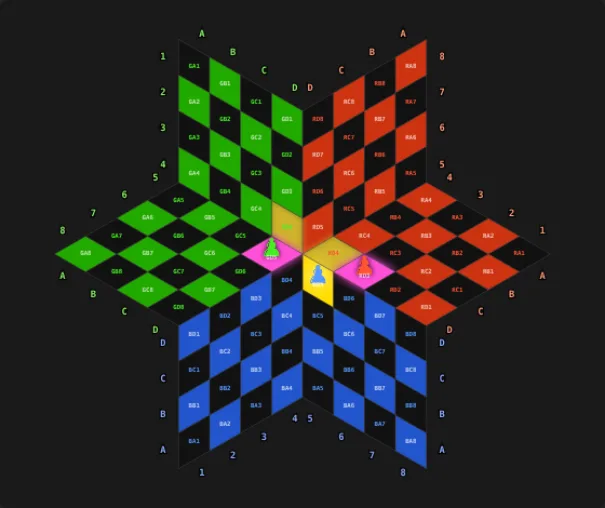
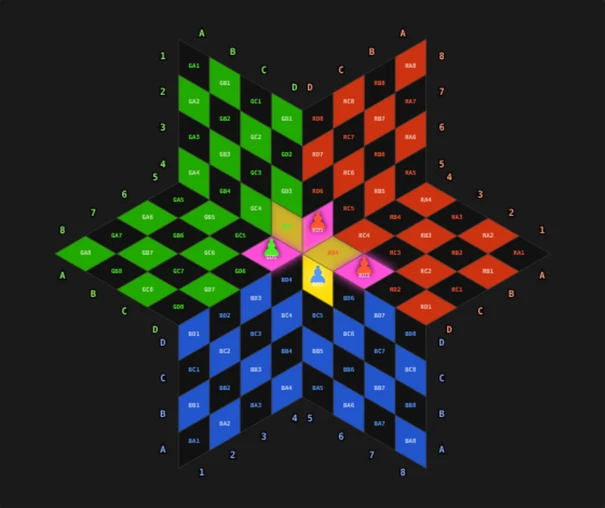
Übungsbrett: Bauer über die Mitte zeigt alle drei Schlagmöglichkeiten (zweiter roter Bauer auf RD5)
Claude-Session: https://claude.ai/code/session_01365X2SWYipJabxSY5eVkQA

diff --git a/spiel.html b/spiel.html
@@ -3944,7 +3944,7 @@ const DEMOS=[
  {name:'Springer',pieces:{BD4:'N'},sel:'BD4',txt:'Der <b>Springer auf BD4</b> springt zwei Felder vor und eins seitlich (oder umgekehrt) – auch über die Mitte in beide Nachbarsektionen.'},
  {name:'Dame',pieces:{BD4:'Q'},sel:'BD4',txt:'Die <b>Dame auf BD4</b> verbindet Turm- und Läuferzüge und erreicht so von der Mitte aus große Teile aller drei Sektionen.'},
  {name:'König',pieces:{BD4:'K'},sel:'BD4',txt:'Der <b>König auf BD4</b> zieht ein Feld weit – auch hinüber auf die angrenzenden D-Felder der Nachbarsektionen.'},
- {name:'Bauer über die Mitte',pieces:{BD5:'P',GD5:{p:'P',c:'G'},RD3:{p:'P',c:'R'}},sel:'BD5',txt:'Der <b>blaue Bauer auf BD5</b> zieht über die Mitte in beide Nachbarsektionen (GD4 oder RD4) und kann dort auch <b>schräg schlagen</b> (rot markiert). Danach zieht er Richtung Reihe A der fremden Sektion.'},
+ {name:'Bauer über die Mitte',pieces:{BD5:'P',GD5:{p:'P',c:'G'},RD3:{p:'P',c:'R'},RD5:{p:'P',c:'R'}},sel:'BD5',txt:'Der <b>blaue Bauer auf BD5</b> zieht über die Mitte in beide Nachbarsektionen (GD4 oder RD4) und kann dort auch <b>schräg schlagen</b> (rot markiert). Danach zieht er Richtung Reihe A der fremden Sektion.'},
  {name:'Bauer in fremder Sektion',pieces:{RC4:'P'},sel:'RC4',txt:'Ein <b>blauer Bauer in Rots Sektion</b> zieht in Richtung Rots Reihe A. Erreicht er sie, wird er <b>umgewandelt</b> (Dame, Turm, Läufer oder Springer).'},
 ];
 const demo={idx:0,state:{},sel:null,place:null,color:'B'};
